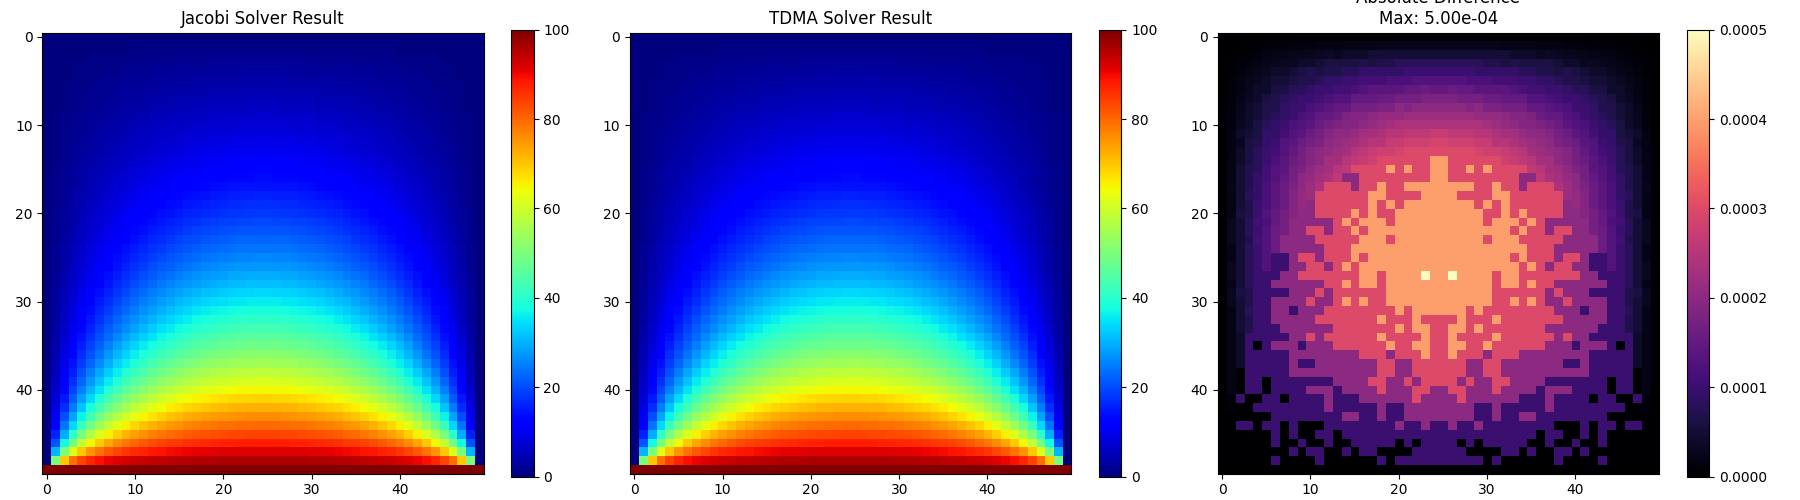
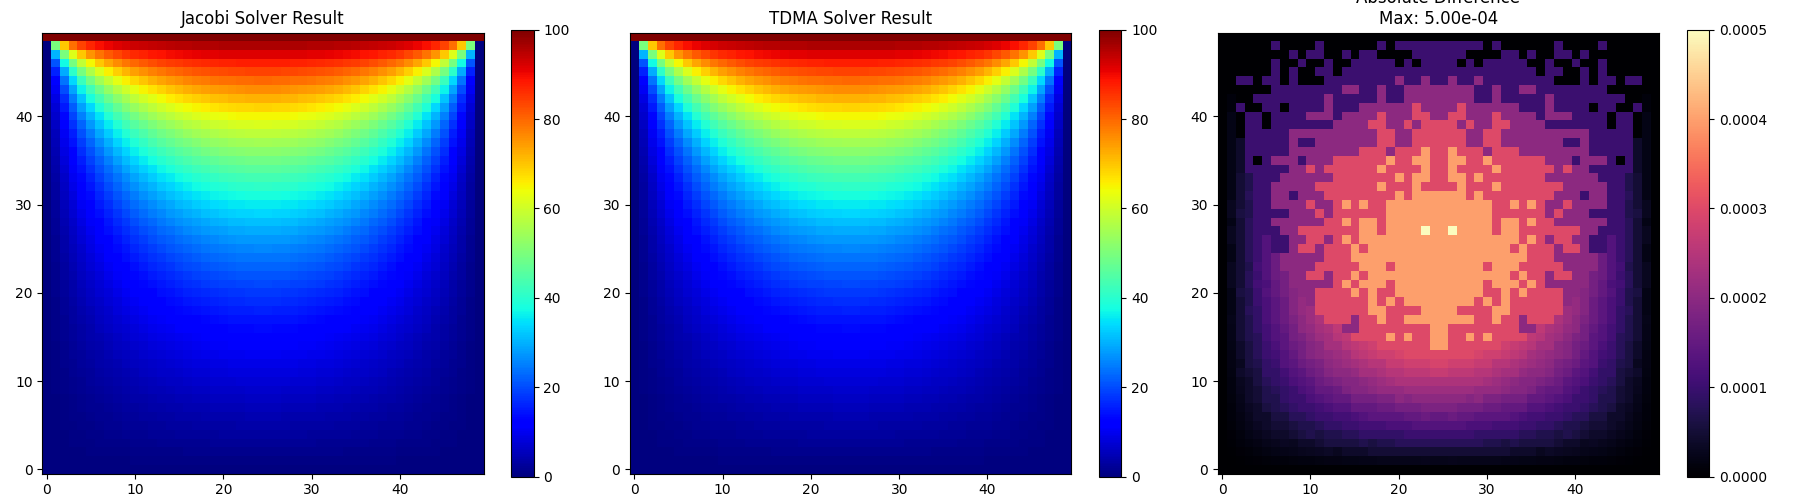
fix(analytics): invert y-axis mapping to match Cartesian coordinates and clean README layout

diff --git a/python/scripts/verify_2d_consistency.py b/python/scripts/verify_2d_consistency.py
@@ -45,16 +45,16 @@ def main():
 
         fig, axes = plt.subplots(1, 3, figsize=(18, 5))
         
-        im1 = axes[0].imshow(temp_2d_j, cmap='jet')
+        im1 = axes[0].imshow(temp_2d_j, cmap='jet', origin='lower')
         axes[0].set_title("Jacobi Solver Result")
         plt.colorbar(im1, ax=axes[0])
 
-        im2 = axes[1].imshow(temp_2d_t, cmap='jet')
+        im2 = axes[1].imshow(temp_2d_t, cmap='jet', origin='lower')
         axes[1].set_title("TDMA Solver Result")
         plt.colorbar(im2, ax=axes[1])
 
         # Diverging map for differences
-        im3 = axes[2].imshow(diff_2d, cmap='magma')
+        im3 = axes[2].imshow(diff_2d, cmap='magma', origin='lower')
         axes[2].set_title(f"Absolute Difference\nMax: {max_diff:.2e}")
         plt.colorbar(im3, ax=axes[2])
 

diff --git a/README.md b/README.md
@@ -33,7 +33,7 @@ A C++/Fortran hybrid simulation suite designed for high-fidelity thermal analysi
   <b>Figure 3: Field-to-Field Consistency Analysis.</b>
 </p>
 
-* **Metric:** Max Absolute Difference is strictly bounded at **$5.00 \times 10^{-4}$**.
+* **Metric:** Max Absolute Difference is strictly bounded at $5.00 \times 10^{-4}$.
 * **Reliability:** Proving the optimized TDMA solver matches the Jacobi baseline ensures numerical integrity for mission-critical applications.
 
 ## 3. Fundamental Physical Validation
@@ -57,7 +57,7 @@ A C++/Fortran hybrid simulation suite designed for high-fidelity thermal analysi
 
 ## Getting Started
 ### Prerequisites
-* CMake (>= 3.10)
+* CMake (>= 4.3.2)
 * G++ (Standard 17)
 * GTest (Google Test Framework)
 
@@ -66,9 +66,3 @@ A C++/Fortran hybrid simulation suite designed for high-fidelity thermal analysi
 cmake -B build -DCMAKE_BUILD_TYPE=Release
 cmake --build build
 cd build && ctest --output-on-failure
-
-## Getting Started
-### Prerequisites
-* CMake (>= 3.10)
-* G++ (Standard 17)
-* GTest (Google Test Framework)
